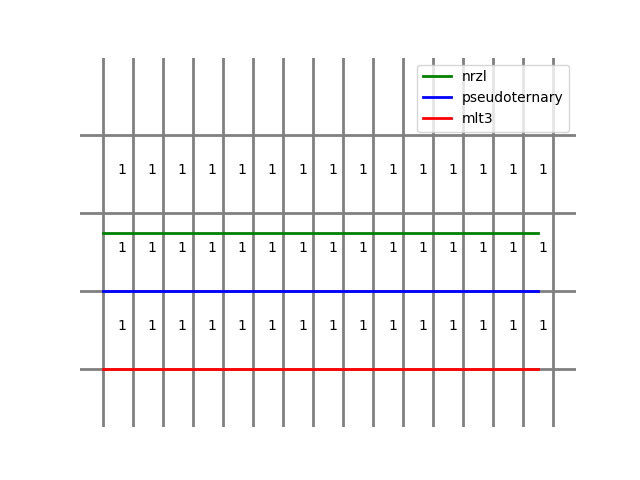
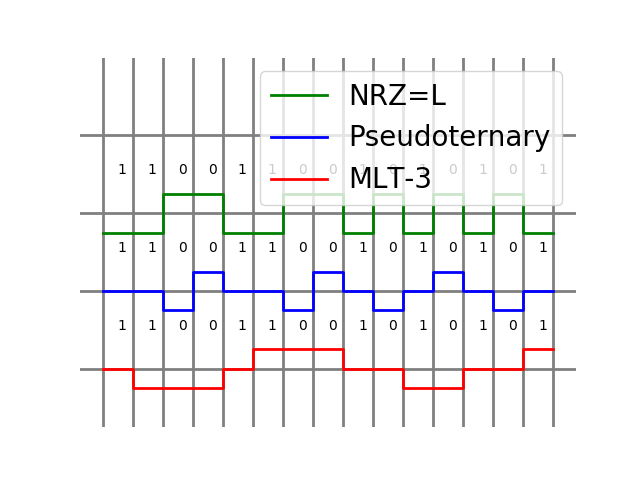
looking good, pretty much done

diff --git a/mcgintyProjectTwo.py b/mcgintyProjectTwo.py
@@ -6,53 +6,47 @@ import numpy as np
 # and text output which is list of +, - or 0
 
 def get_sign(bit):
-    return bit if bit == 0 else ('+' if bit > 0 else '-')
+    return str(bit) if bit == 0 else ('+' if bit > 0 else '-')
 
 def nrzlScheme(bits):
-    nrzl = [-1 if bit else 1 for bit in bits]
-    nrzl_text = [get_sign(bit) for bit in bits]
-    return np.repeat(nrzl, 2), nrzl_text
+    nrzl_level = [-1 if bit else 1 for bit in bits]
+    nrzl_text = [get_sign(level) for level in nrzl_level]
+    return np.repeat(nrzl_level, 2), nrzl_text
 
 def pseudoternaryScheme(bits):
-    pseudoternary = [0 if bits[0] else -1] 
-    pseudoternary_text = [0 if bits[0] else '-']
-    prev_zero_bit = 1 if bits[0] else -1
+    pseudoternary_levels = [0 if bits[0] else -1] 
+    pseudoternary_text = [str(0) if bits[0] else '-']
+    last_zero_level = 1 if bits[0] else -1
 
     for bit in bits[1:]:
-        prev_zero_bit *= 1 if bit else -1
-        next_level = 0 if bit else prev_zero_bit
-        pseudoternary.append(next_level)
-        pseudoternary_text.append(get_sign(bit))
+        last_zero_level *= 1 if bit else -1
+        next_level = 0 if bit else last_zero_level
+        pseudoternary_levels.append(next_level)
+        pseudoternary_text.append(get_sign(next_level))
         
-    return np.repeat(pseudoternary, 2), pseudoternary_text
+    return np.repeat(pseudoternary_levels, 2), pseudoternary_text
 
 def mlt3Scheme(bits):
-    mlt3 = [0 if bits[0] else 1] 
+    mlt3_levels = [0 if bits[0] else 1] 
     mlt3_text = [0 if bits[0] else '+']
-    prev_bit, last_non_zero_level = mlt3[0], mlt3[0]
-
-    for bit in bits[1:]:
-
-        if bit == 1:
-            if prev_bit: # 1 or -1
-                bit = 0
-            else: # current level is 0
-                if last_non_zero_level == 1:
-                    bit -= 1
-                elif last_non_zero_level == 0:
-                    bit = 1
-                elif last_non_zero_level == -1:
-                    bit += 1
-
-                bit += -1 if last_non_zero_level > -1 else 1
-                last_non_zero_level = bit
-
-        prev_bit = bit
-
-        mlt3.append(bit)
-        mlt3_text.append(get_sign(bit))
+    current_level, last_non_zero_level = mlt3_levels[0], 1
+    
+    for next_bit in bits[1:]:
         
-    return np.repeat(mlt3, 2), mlt3_text
+        next_level = current_level # if 0 no transition 
+        if next_bit == 1:
+            if current_level == 0: # 1 or -1
+                last_non_zero_level *= -1
+                next_level = last_non_zero_level
+            else: # current level is 1 or -1
+                next_level = 0
+
+        current_level = next_level
+        mlt3_levels.append(next_level)
+        mlt3_text.append(get_sign(next_level))
+
+    # mlt3_levels.append(mlt3_levels[-1])
+    return np.repeat(mlt3_levels, 2), mlt3_text
 
 def axis_lines():
     pass
@@ -70,30 +64,33 @@ def my_lines(ax, pos, *args, **kwargs):
             plt.axhline(p, *args, **kwargs)
 
 def plotSchemes(bits):
-    print("BITS", bits)
 
-    nrzl, nrzl_text = nrzlScheme(bits)
-    pseudoternary, pseudoternary_text = pseudoternaryScheme(bits)
-    mlt3, mlt3_text = mlt3Scheme(bits)
+    nrzl_levels, nrzl_text = nrzlScheme(bits)
+    pseudoternary_levels, pseudoternary_text = pseudoternaryScheme(bits)
+    mlt3_levels, mlt3_text = mlt3Scheme(bits)
 
+    nrzl_levels = np.append(nrzl_levels, nrzl_levels[-1])
+    pseudoternary_levels = np.append(pseudoternary_levels, pseudoternary_levels[-1:])
+    mlt3_levels = np.append(mlt3_levels, mlt3_levels[-1:])
+    print([str(bit) for bit in bits], "Bits")
+    print(nrzl_text, "NRZ-L")
+    print(pseudoternary_text, "Pseudoternary")
+    print(mlt3_text, "MLT-3")
+    # bits.append(bits[-1])
     data = np.repeat(bits, 2) # just doubles element in sequnce
-    # print("DATA", data)
-
     t = 0.5 * np.arange(len(data))
-    print("DATA", data)
-    print("T", t)
-    # plt.hold(True) # apparently deprecated so bad!!!!
+    t = np.append(t, t[-1]+0.5)
 
     # # linewidth is literally tickness of line
     # second argument is range of numbers where a line will be drawn on appropriate axis
     # remainder of arguements will resolve to args and kwargs
-    my_lines('x', range(16), color='.5', linewidth=2) 
+    my_lines('x', range(len(bits)+1), color='.5', linewidth=2) 
     my_lines('y', [1, 5, 9, 13], color='.5', linewidth=2)
     #plt.step(x, y, color, args)
-    plt.step(t, nrzl + 9, 'g', linewidth = 2, where='post', label='nrzl')
-    plt.step(t, pseudoternary + 5, 'b', linewidth = 2, where='post', label='pseudoternary')
-    plt.step(t, mlt3 + 1, 'r', linewidth = 2, where='post', label='mlt3')
-    plt.legend(loc='upper right')
+    plt.step(t, nrzl_levels + 9, 'green', linewidth = 2, where='post', label='NRZ=L')
+    plt.step(t, pseudoternary_levels + 5, 'blue', linewidth = 2, where='post', label='Pseudoternary')
+    plt.step(t, mlt3_levels + 1, 'red', linewidth = 2, where='post', label='MLT-3')
+    plt.legend(loc='upper right', prop={'size': 20})
 
     plt.ylim([-2, 17])
 
@@ -108,11 +105,13 @@ def plotSchemes(bits):
 
 if __name__ == "__main__":
     # bits = [0,1,0,1,1,0,1,1,0,0,1,1,0,1,0] # test 1
-    # bits = [1,1,0,0,1,1,0,0,1,0,1,0,1,0,1]
-    # bits = # test 2
+    bits = [1,1,0,0,1,1,0,0,1,0,1,0,1,0,1] # test 2
     # bits = [0]*15 
-    bits = [1]*15
+    # bits = [1]*15
+    # bits = [0,0,0,1,1,0,0,0]
     # bits = [0, 1]*8
     # bits.pop()
-    
+
+    # print("Test 1")
+    print("Test 2")
     plotSchemes(bits)
